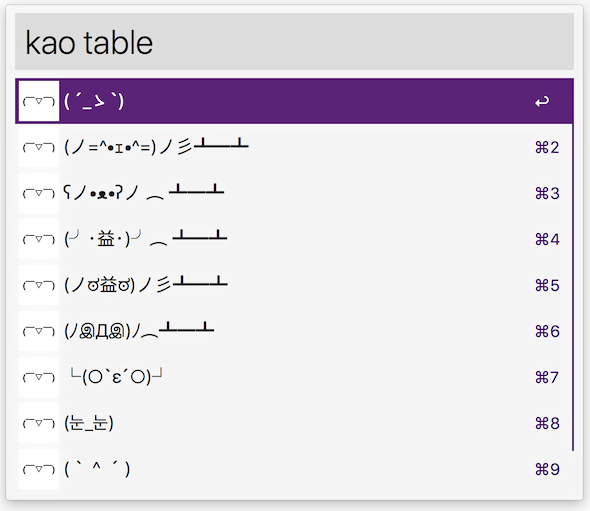
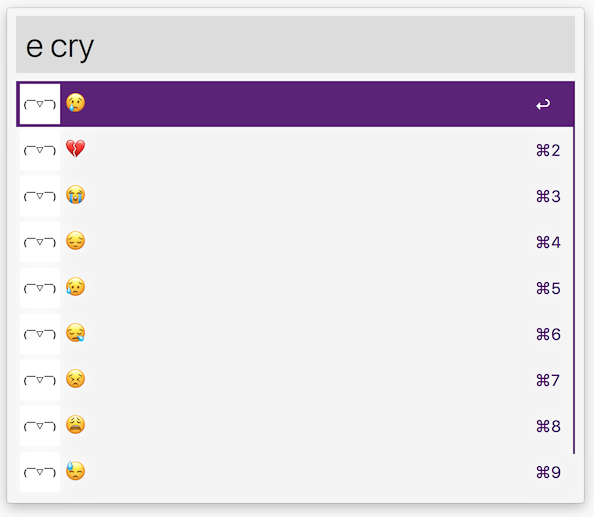
Updating README

diff --git a/README.md b/README.md
@@ -1,13 +1,17 @@
 # alfred-kaomoji
 
-Alfred workflow for looking up kaomoji. Kaomojis are loaded from getdango.com service.
+Alfred workflow for looking up emoji and kaomoji. Both are loaded from getdango.com service.
 
 ## Download
 
-Download version 1.0.0 [kaomoji](https://github.com/dvor/alfred-kaomoji/releases/download/v1.0.0/kaomoji.alfredworkflow).
+Download version 1.0.0 [kaomoji](https://github.com/dvor/alfred-kaomoji/releases/download/1.0.0/kaomoji.alfredworkflow).
 
 ## Usage
 
-Type `kao` followed by a query to search for kaomojis.
+Type `e` followed by a query to search for emojis.
 
 ![Example](screenshots/01.png)
+
+Type `k` followed by a query to search for kaomojis.
+
+![Example](screenshots/02.png)
